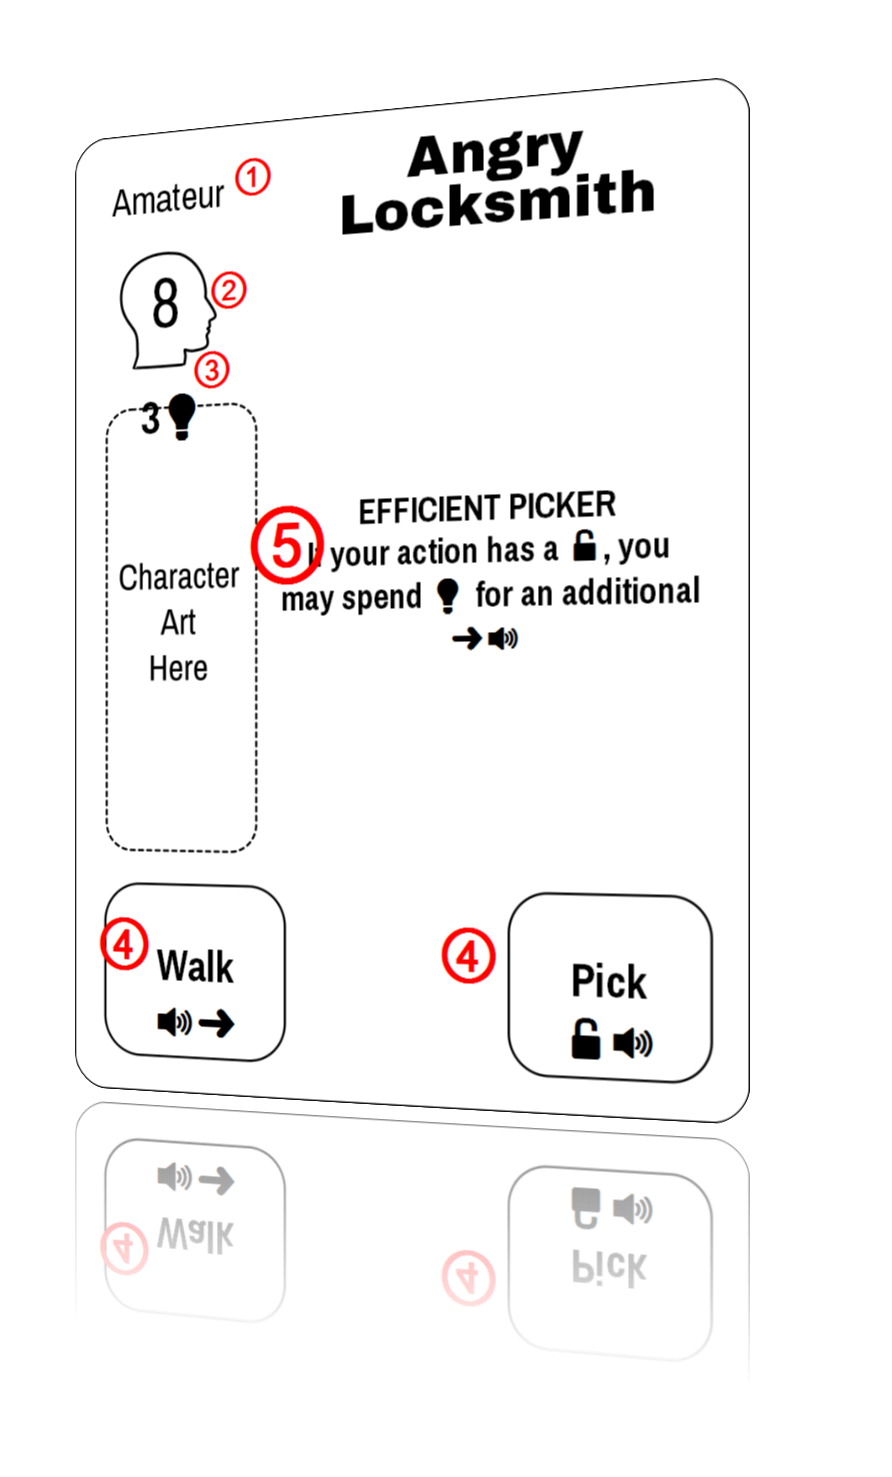
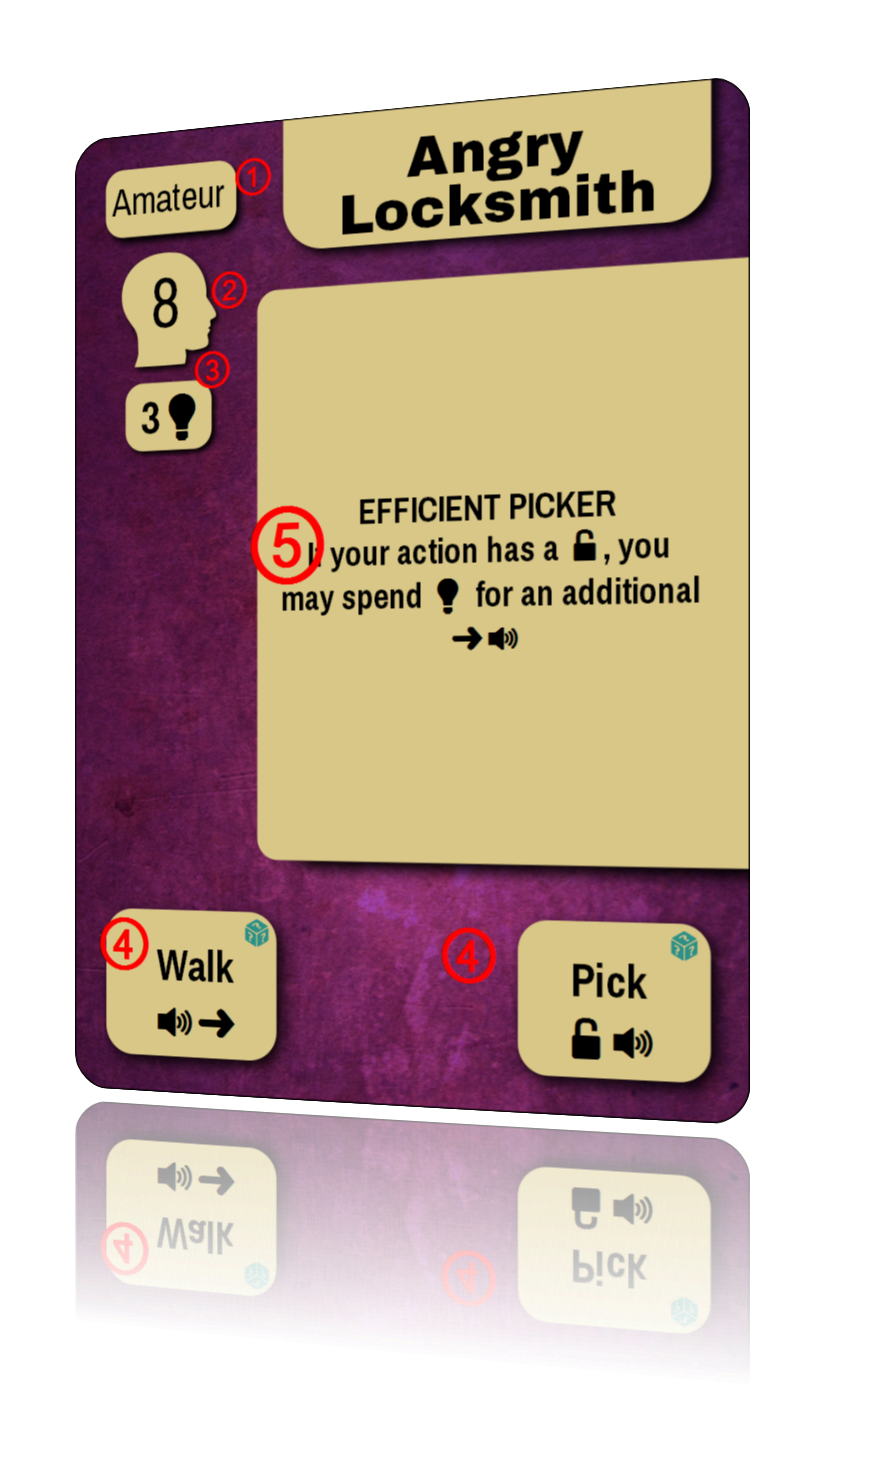
graphics: building some showcases

diff --git a/src/skills.rb b/src/skills.rb
@@ -33,6 +33,11 @@ Squib::Deck.new(cards: total, width: 1125, height: 825) do
 
   save_png prefix: 'skill_'
   save_pdf file: 'skills.pdf', trim: '0.125in'
+  build :color do
+    showcase range: [26,16], file: 'skill_showcase.png'
+  end
+
+
   build :rulebook_figures do
     # rect layout: :border
     # %i(Action SubAction DieRoll Level).each do |fig|

diff --git a/src/characters.rb b/src/characters.rb
@@ -45,6 +45,9 @@ Squib::Deck.new(cards: total) do
 
   save_png prefix: 'character_'
   save_pdf file: 'characters.pdf', trim: '0.125in'#, range: 0
+  build :color do
+    showcase range: [9,8], file: 'character_showcase.png'
+  end
 
   build :rulebook_figures do
     rect layout: :border
